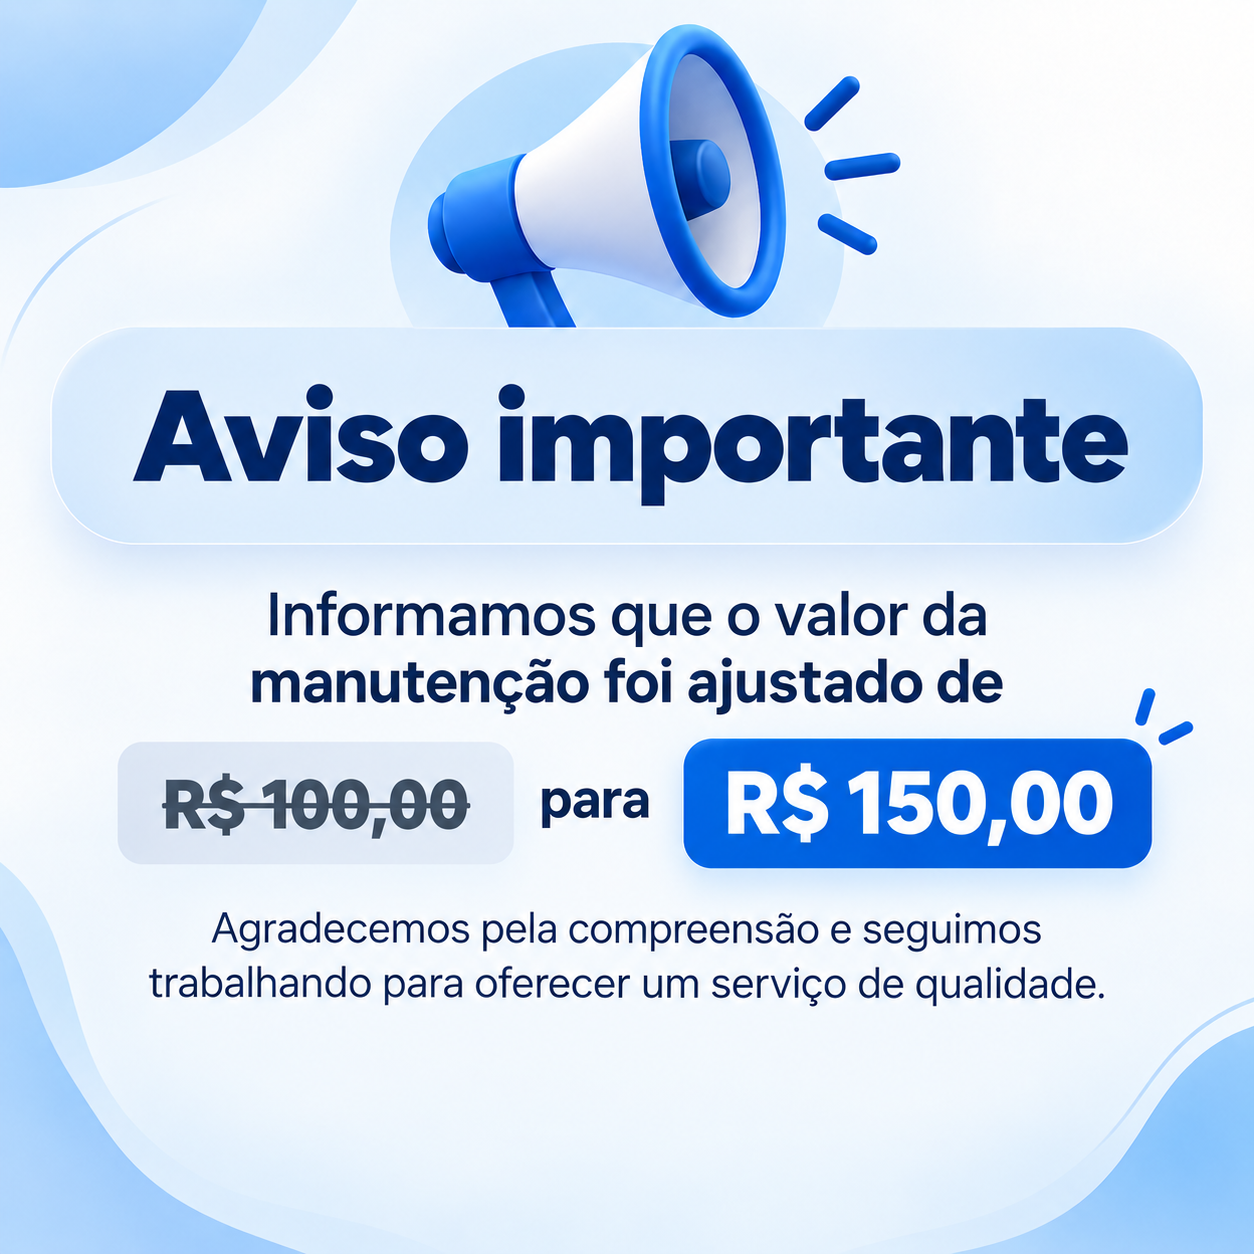
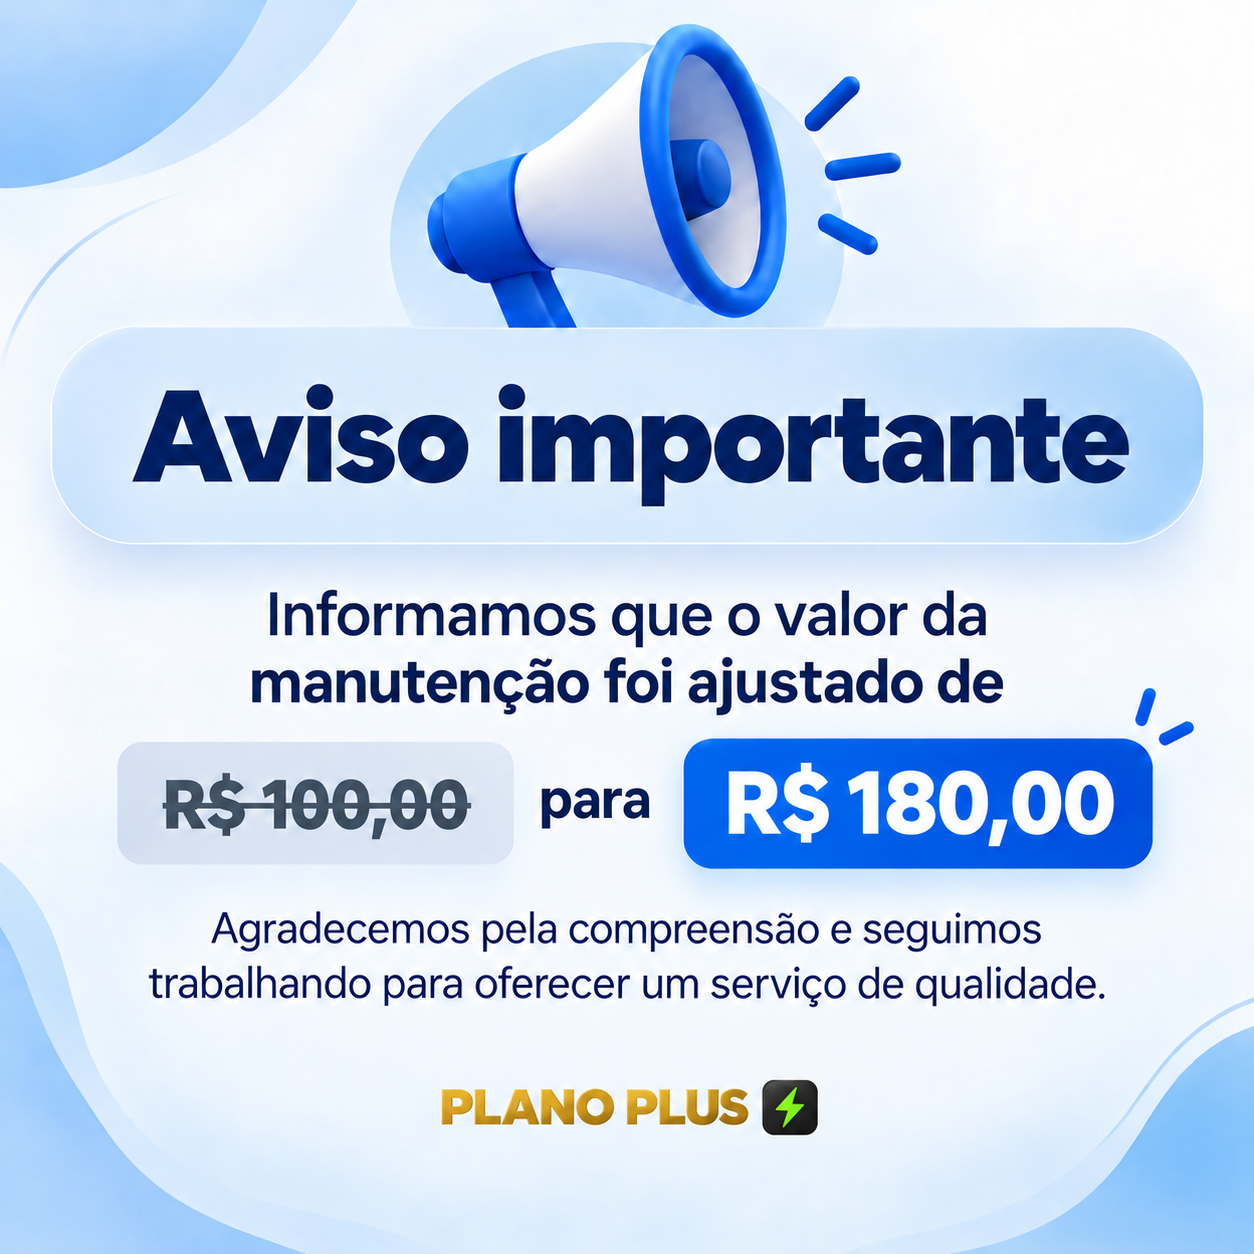
Add files via upload

diff --git a/components/Sidebar.tsx b/components/Sidebar.tsx
@@ -193,15 +193,17 @@ const Sidebar: React.FC<SidebarProps> = ({
 
       {/* Cabeçalho / Logo */}
       <div className="management-sidebar-brand mb-0 mt-4 text-center">
-        <div className="mb-3 flex -translate-y-4 items-center justify-center gap-2 text-white">
-          <strong className="text-xs font-black uppercase tracking-wider">Plano Plus</strong>
+        <div className="mx-auto mb-3 flex w-fit -translate-y-4 items-center justify-center gap-2.5 rounded-full border border-white/15 bg-black/20 px-4 py-2 shadow-[0_6px_18px_rgba(0,0,0,0.28)] backdrop-blur-sm">
+          <strong className="bg-gradient-to-b from-[#FFE878] via-[#D4AF37] to-[#9A6800] bg-clip-text text-sm font-black uppercase tracking-wider text-transparent drop-shadow-sm">
+            Plano Plus
+          </strong>
           <span
-            className="flex h-5 w-5 items-center justify-center rounded-md bg-[#17221d] shadow-sm"
-            title="Plano Plus"
-            aria-label="Plano Plus"
+            className="flex h-6 w-6 items-center justify-center rounded-md bg-gradient-to-br from-[#292929] to-[#080808] shadow-[0_2px_5px_rgba(0,0,0,0.35)]"
+            title="Você está usando um plano Plus"
+            aria-label="Você está usando um plano Plus"
           >
-            <svg width="12" height="12" viewBox="0 0 24 24" fill="none" aria-hidden="true">
-              <path d="M13.2 2.8 4.9 13.1c-.5.6-.1 1.5.7 1.5h6.1l-.8 6.1c-.1.9 1 1.3 1.6.6l7.1-10.2c.4-.6 0-1.4-.7-1.4h-5.4l1.3-6.1c.2-.9-1-1.4-1.6-.8Z" fill="#3ECF8E"/>
+            <svg width="14" height="14" viewBox="0 0 24 24" fill="none" aria-hidden="true">
+              <path d="M13.2 2.8 4.9 13.1c-.5.6-.1 1.5.7 1.5h6.1l-.8 6.1c-.1.9 1 1.3 1.6.6l7.1-10.2c.4-.6 0-1.4-.7-1.4h-5.4l1.3-6.1c.2-.9-1-1.4-1.6-.8Z" fill="#76FF03"/>
             </svg>
           </span>
         </div>

diff --git a/App.tsx b/App.tsx
@@ -20,8 +20,8 @@ const ACCESS_PASSWORD_STORAGE_KEY = 'claudia_access_password';
 const LOGOUT_PASSWORD_STORAGE_KEY = 'claudia_logout_password';
 const DEFAULT_ACCESS_PASSWORD = '123456';
 const DEFAULT_LOGOUT_PASSWORD = '123456';
-const AVISO_EXIBICOES_STORAGE_KEY = 'claudia_aviso_manutencao_exibicoes';
-const MAX_AVISO_EXIBICOES = 5;
+const AVISO_EXIBICOES_STORAGE_KEY = 'claudia_aviso_manutencao_180_exibicoes';
+const MAX_AVISO_EXIBICOES = 10;
 
 const formatarTextoComoNomeProprio = (valor: string) =>
   valor
